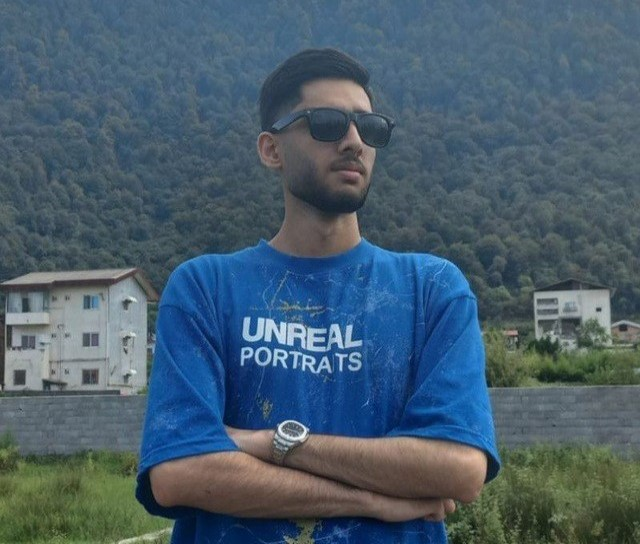
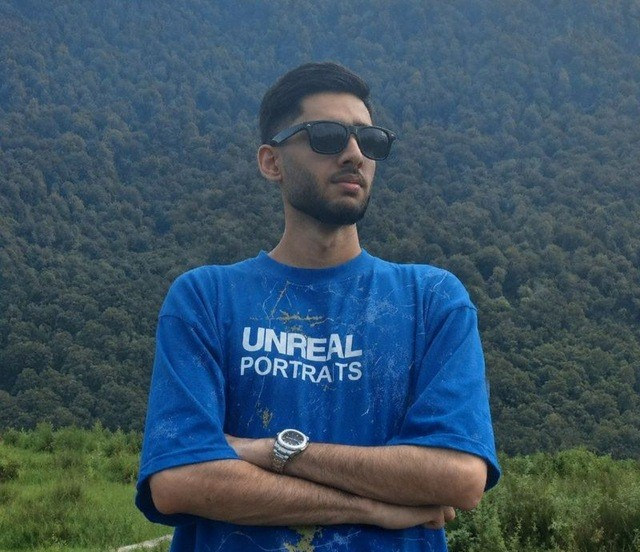
update slider UI and images

diff --git a/components/About.vue b/components/About.vue
@@ -52,6 +52,7 @@ const slides = [
 .mySwiper {
 max-width: 340px;
 margin: auto;
+padding-bottom: 35px;
 }
 
 .swiper-slide {
@@ -66,12 +67,26 @@ border-radius: 5px;
 
 .text {
 position: absolute;
-bottom: 22px;
+bottom: 0;
 left: 0;
 width: 100%;
-color: white;
+box-sizing: border-box;
+padding: 35px 15px 18px;
+color: #fff;
 text-align: center;
-padding: 8px;
+font-size: 16px;
+font-weight: 600;
+letter-spacing: 0.3px;
+background: linear-gradient(
+    to top,
+    rgba(0, 0, 0, 0.75),
+     rgba(0, 0, 0, 0.35),
+      transparent
+  );
+  text-shadow:
+     0 1px 3px rgba(0, 0, 0, 0.9),
+      0 2px 6px rgba(0, 0, 0, 0.6);
+  border-radius: 0 0 5px 5px;
 }
 
 :deep(.swiper-button-prev),
@@ -83,11 +98,11 @@ padding: 8px;
  display: flex;
  align-items: center;
  justify-content: center;
- transition: all .25s ease;
+ transition: all 0.25s ease;
   &:hover {
     background-color: rgba($primary-hover, 0.85);
     transform: scale(1.08);
-    box-shadow: 0 4px 12px rgba(0, 0, 0, .25);
+    box-shadow: 0 4px 12px rgba(0, 0, 0, 0.25);
   }
 }
 
@@ -97,12 +112,16 @@ padding: 8px;
   font-weight: bold;
 }
 
+:deep(.swiper-pagination) {
+  bottom: 0;
+}
+
 :deep(.swiper-pagination-bullet) {
   width: 10px;
   height: 10px;
   background: $light;
   opacity: 1;
-  transition: .3s;
+  transition: 0.3s;
 }
 
 :deep(.swiper-pagination-bullet:hover) {
